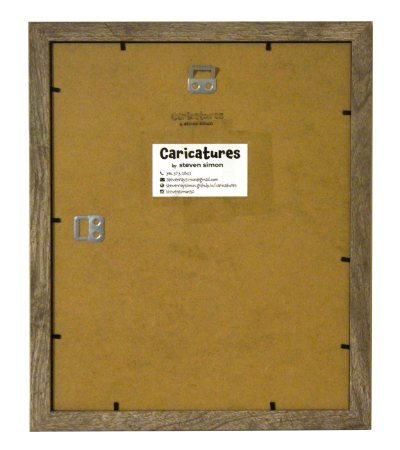
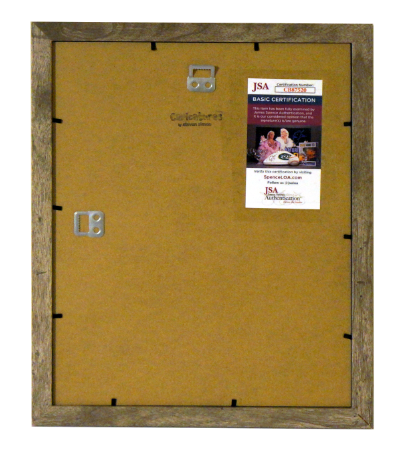
Added Married w/ Children to store

diff --git a/js/components/shop-component.js b/js/components/shop-component.js
@@ -169,6 +169,14 @@ const shopItems = [
         soldOut: false
     },
     {
+        name: "Married With... Children",
+        price: 300,
+        frontImage: "items/married-front.png",
+        backImage: "items/married-back.png",
+        paypalLink: "https://www.paypal.com/ncp/payment/B8F6XA8RUS87S",
+        soldOut: false
+    },
+    {
         name: "Matthew Koma - Unsigned<br><strong>Profits for LA Wildfires</strong>",
         price: 60,
         frontImage: "items/matthewKoma-front.png",
@@ -201,7 +209,7 @@ const shopItems = [
         soldOut: false
     },
     {
-        name: "Rick Trevino - Signed, Unauthenticated",
+        name: "Rick Trevino",
         price: 100,
         frontImage: "items/rick-front.png",
         backImage: "items/rick-back.png",
